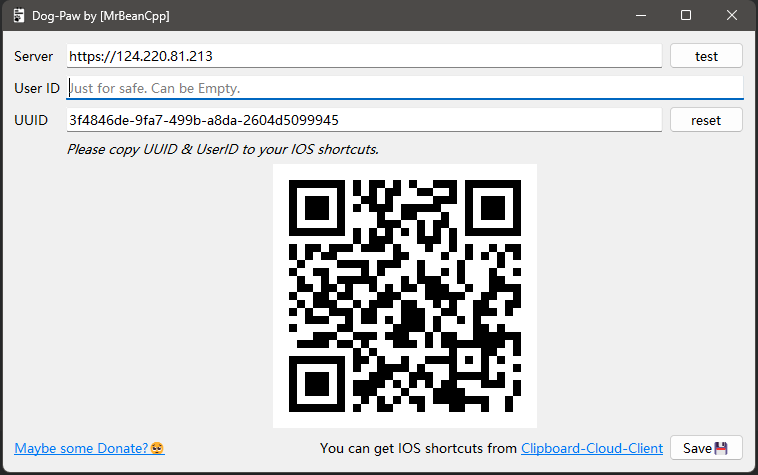
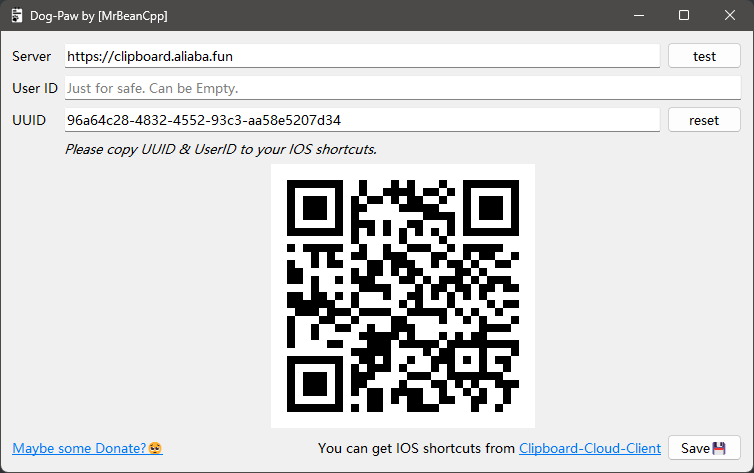
update README
new server address

diff --git a/README.md b/README.md
@@ -12,10 +12,13 @@ Dog-Paw 是一个支持💻`Windows` 和 📱`iOS`间共享的云剪贴板
 
 > Dog-Paw: Your friendly, efficient cloud clipboard that 'grabs' and stores data for you.
 
-### 目前支持的数据格式：
+#### 目前支持的数据格式：
 
 - 文本（Text）
 - 图像（Image）
+
+> [!IMPORTANT]
+> 默认服务器已迁移至：`https://clipboard.aliaba.fun`
 
 ### 特色
 
